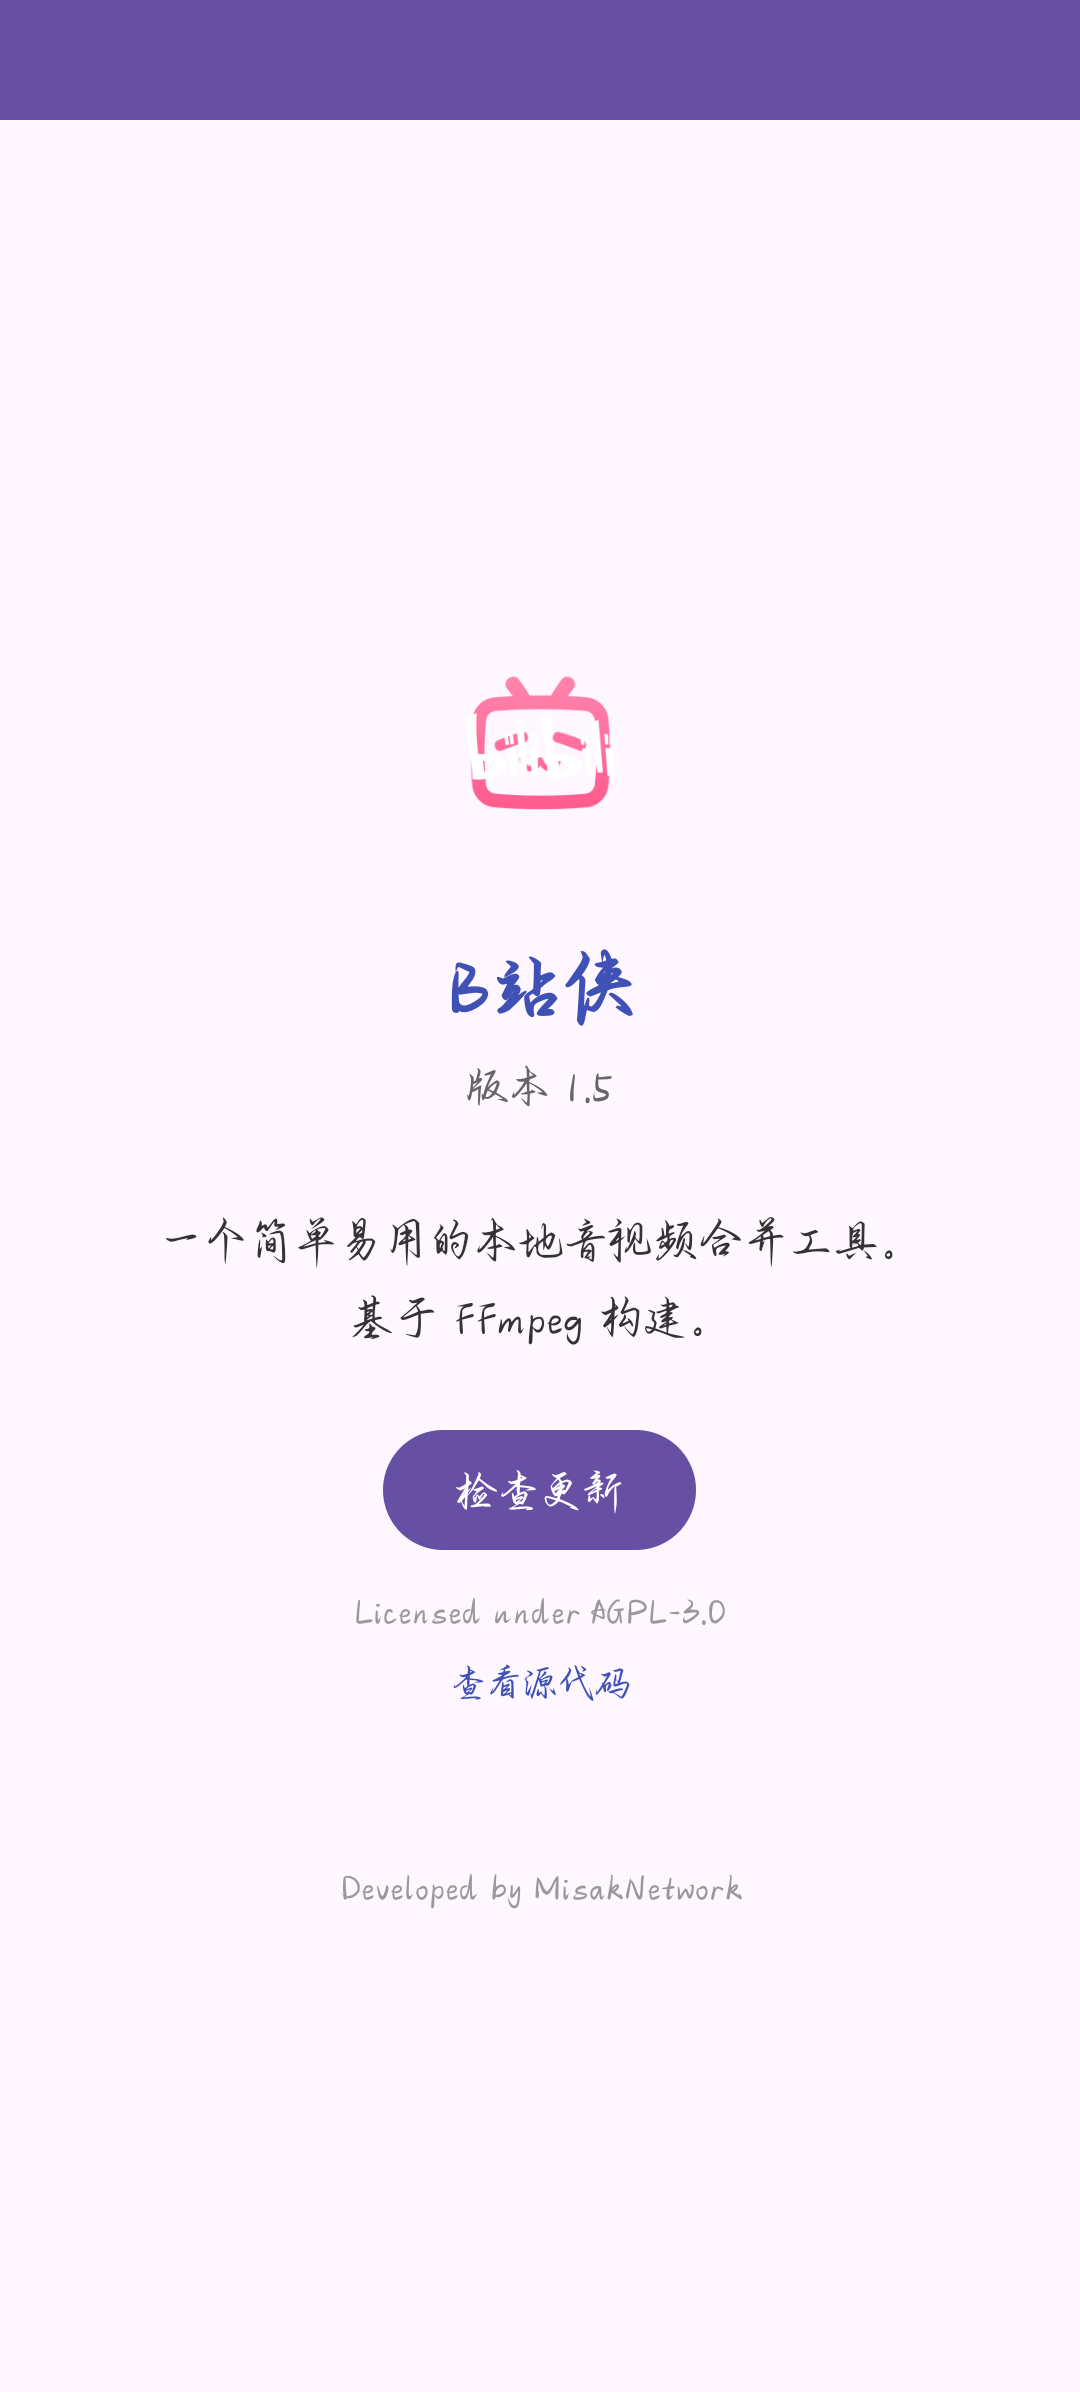
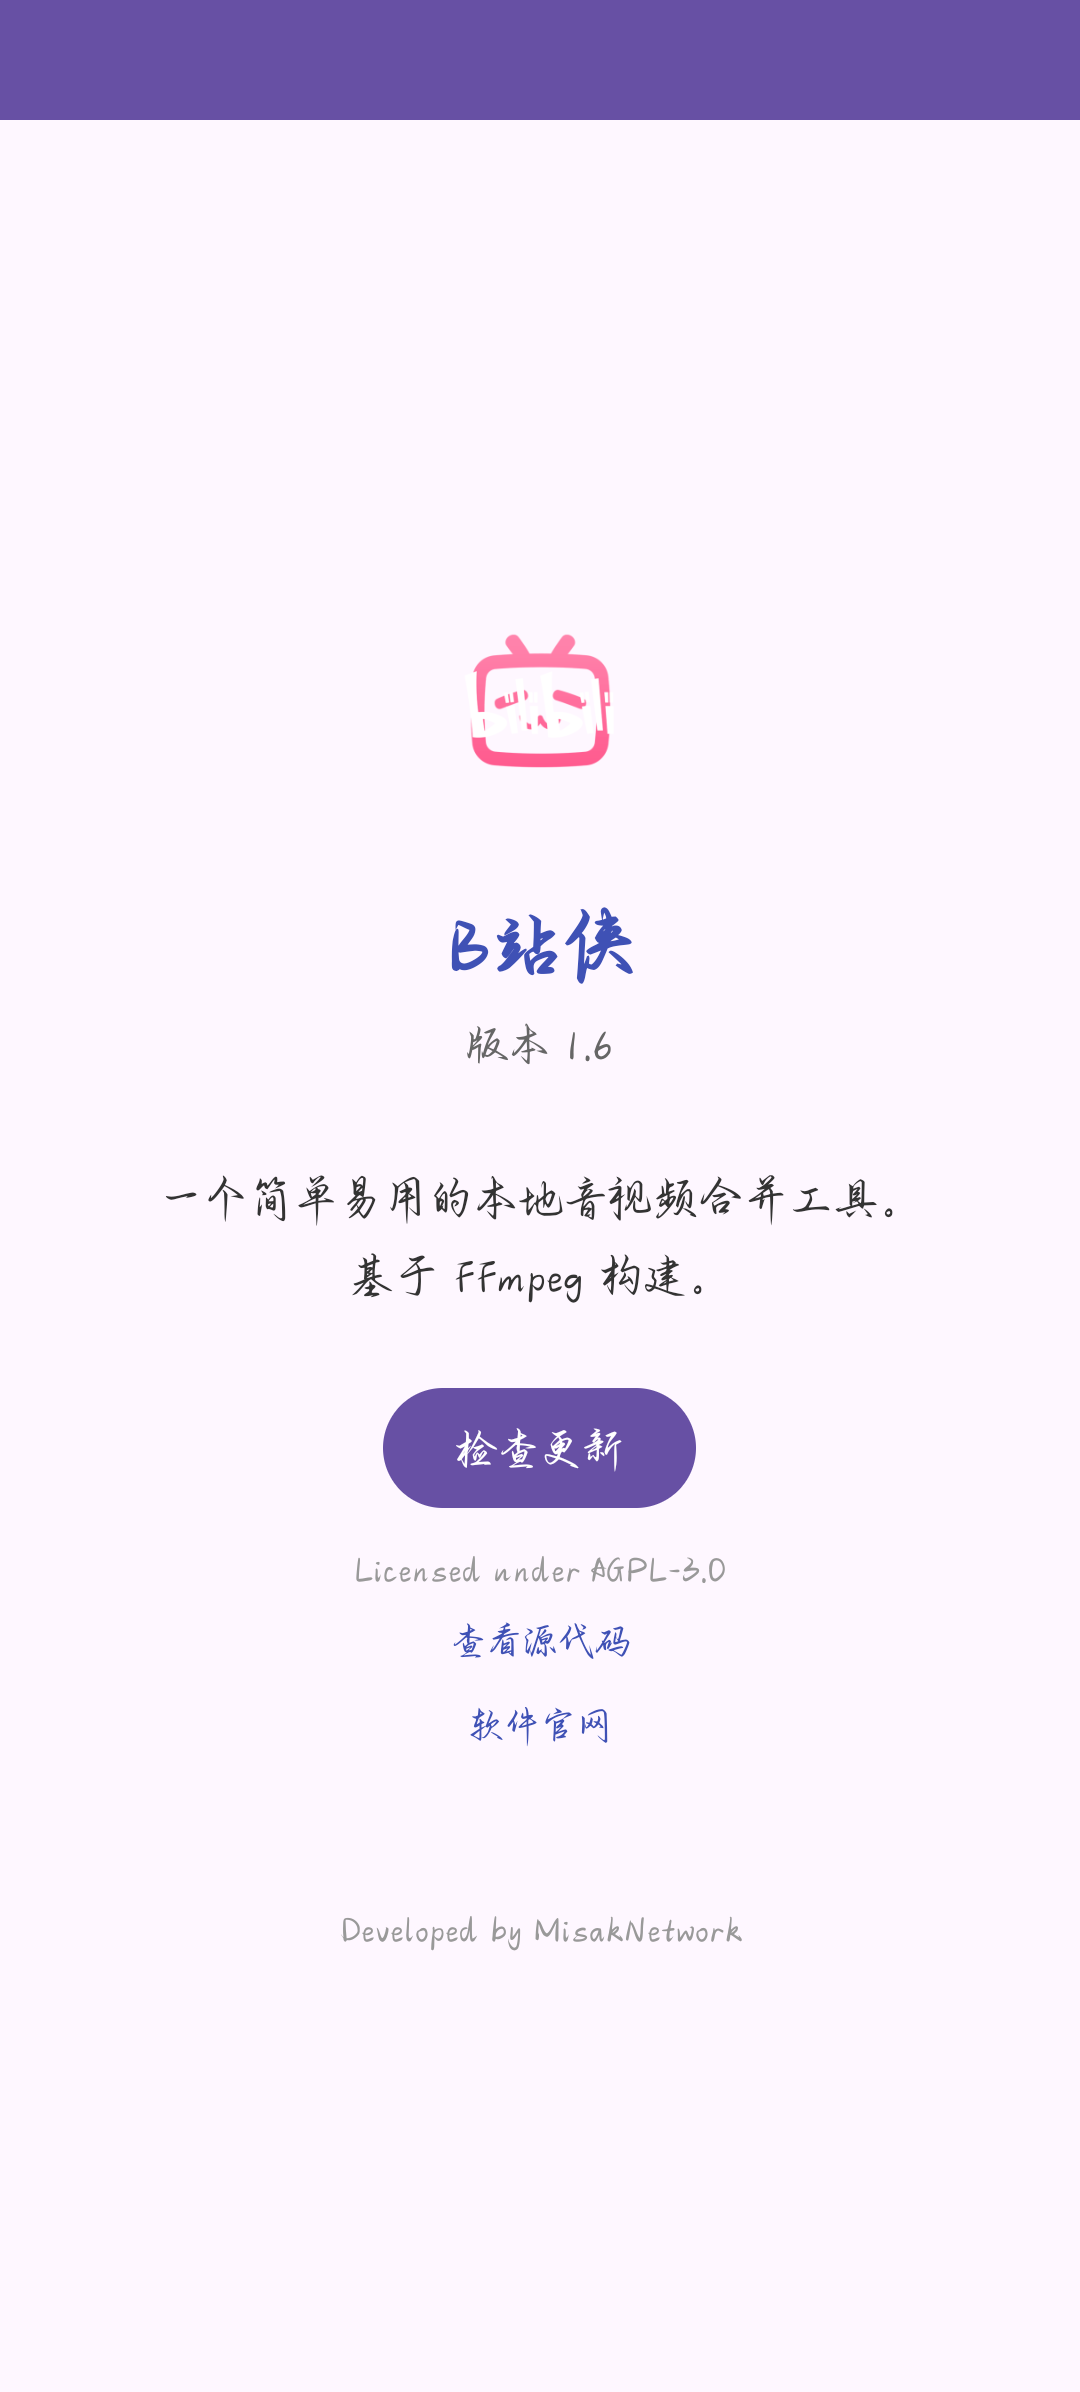
更新截图及h5页面的版本号

diff --git a/docs/index.html b/docs/index.html
@@ -279,7 +279,7 @@
         📦 查看源码
       </a>
     </div>
-    <span class="version-tag">v1.5 · Android 7.0+</span>
+    <span class="version-tag">v1.6.1 · Android 7.0+</span>
   </header>
 
   <section>

diff --git a/docs/en.html b/docs/en.html
@@ -307,7 +307,7 @@
         📦 View Source
       </a>
     </div>
-    <span class="version-tag">v1.5 · Android 7.0+</span>
+    <span class="version-tag">v1.6.1 · Android 7.0+</span>
   </header>
 
   <section>
